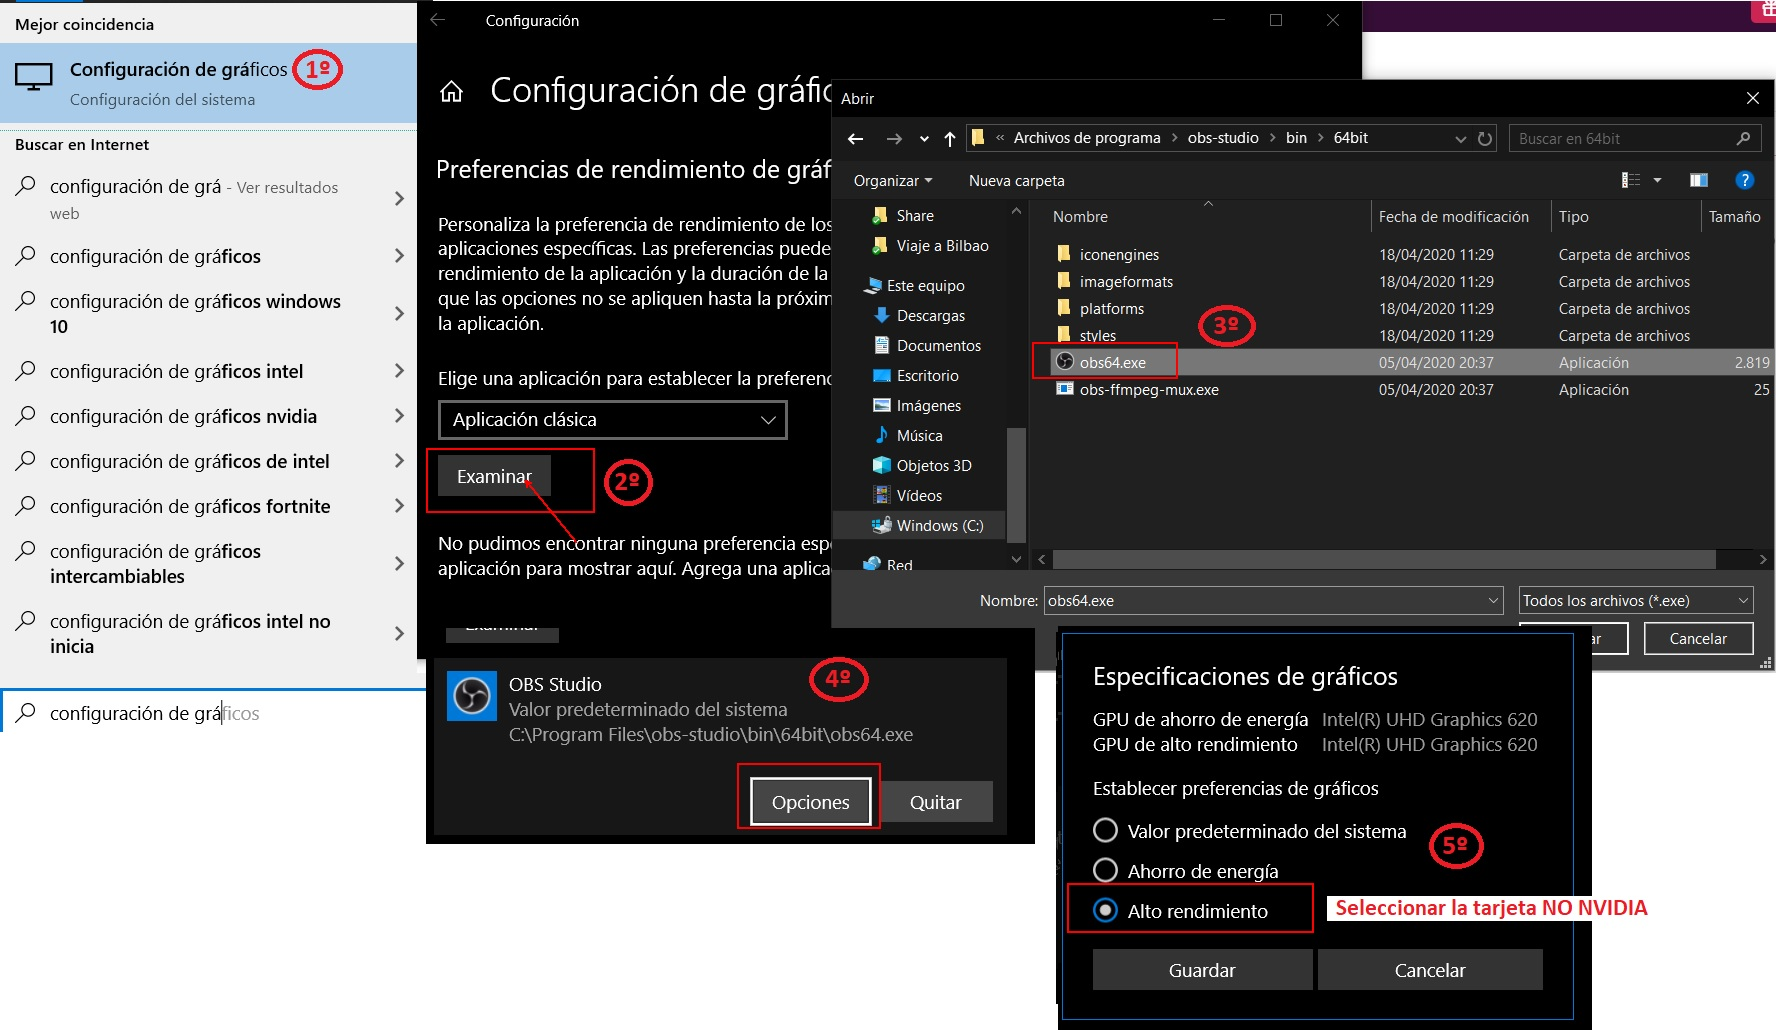
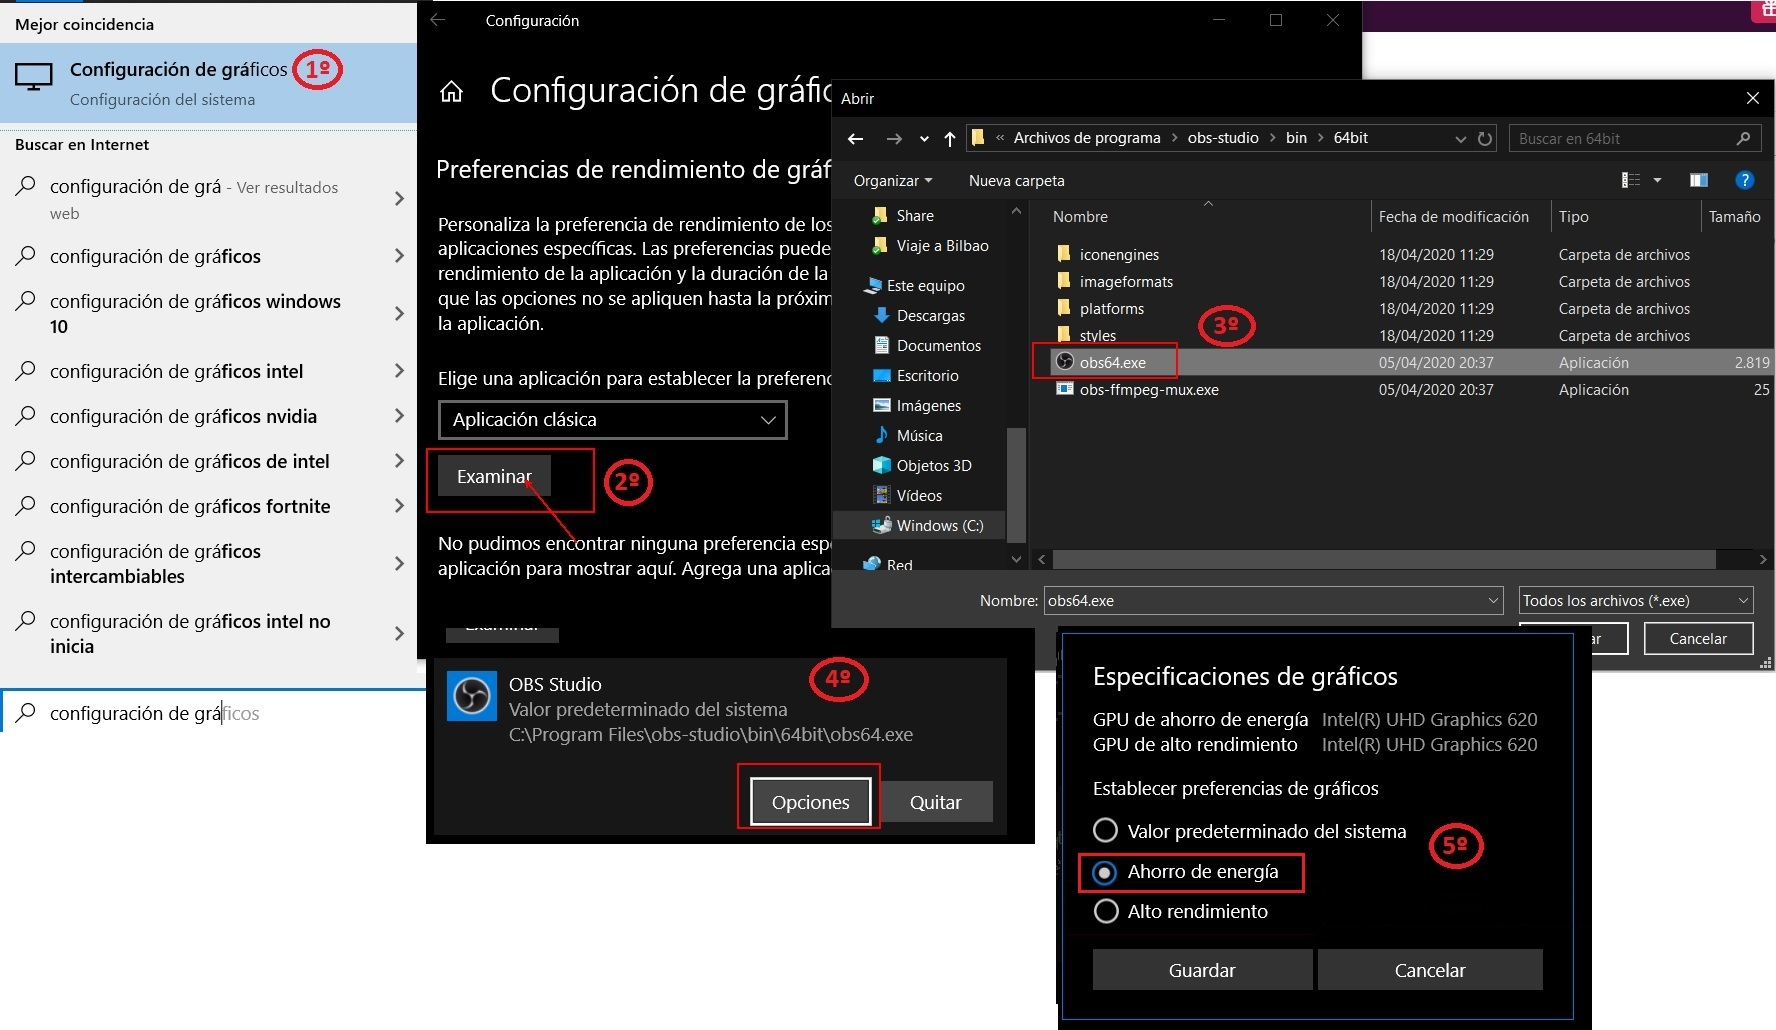
Herramientas de grabación de examen v9

diff --git a/00.tools/README.md b/00.tools/README.md
@@ -9,6 +9,8 @@ Software de grabación de escritorio y fuentes externas (webcam y móvil) que gr
 
 https://obsproject.com/es/download
 
+Se optimizará para la grabación de contenidos.
+
 #### Iriun Webcam (Windows)
 Software que permite utilizar el móvil como segunda webcam.
 
@@ -52,10 +54,18 @@ El alumno deberá grabar un vídeo corto de 1 minuto y subirlo a Moodle en la en
 ## Resolución de problemas
 ### Pantalla de escritorio negra en OBS
 
-Si desde OBS no puedo capturar el escritorio porque se ve todo negro, posiblemente sea porque se posee una tarjeta NVIDIA
+Si desde OBS no puedo capturar el escritorio porque se ve todo negro, posiblemente sea porque se posee una tarjeta NVIDIA. Cuando se poseen varias tarjetas en el ordenador, las NVIDIA suelen dar problemas y el programa OBS debe utilizar la otra tarjeta. 
 
 Solución:
 ![](https://raw.githubusercontent.com/DavidContrerasICAI/javaCourseExamples/master/00.tools/OBSpantallaNegro.jpg)
+
+### Error de Codificación del archivo de salida: ENCODER
+
+Si muestra un error relativo a la codificación similar a este: NV_ENC_ERR_INVALID_VERSION, activadar la codificación del archivo de salida por Software.
+
+Solución:
+![](https://raw.githubusercontent.com/DavidContrerasICAI/javaCourseExamples/master/00.tools/OBSEncoder.jpg)
+
 
 ### En Mac no encuentro la cámara de Iriun
 
